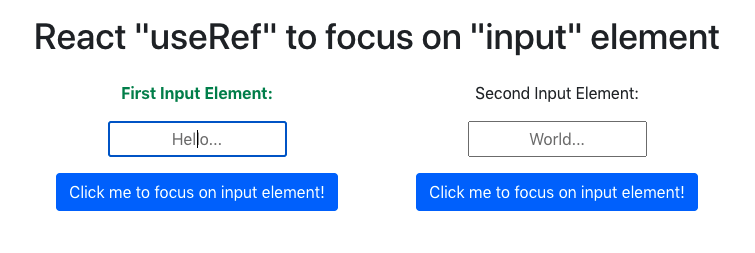
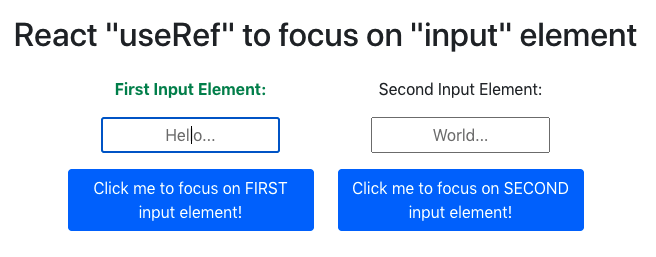
update screenshot

diff --git a/useref-focus-input-element/src/App.js b/useref-focus-input-element/src/App.js
@@ -53,7 +53,7 @@ const App = () => {
 								className='btn btn-primary'
 								onClick={handleFocusFirstInputElement}
 							>
-								Click me to focus on input element!
+								Click me to focus on FIRST input element!
 							</button>
 						</div>
 					</div>
@@ -85,7 +85,7 @@ const App = () => {
 								className='btn btn-primary'
 								onClick={handleFocusSecondInputElement}
 							>
-								Click me to focus on input element!
+								Click me to focus on SECOND input element!
 							</button>
 						</div>
 					</div>
